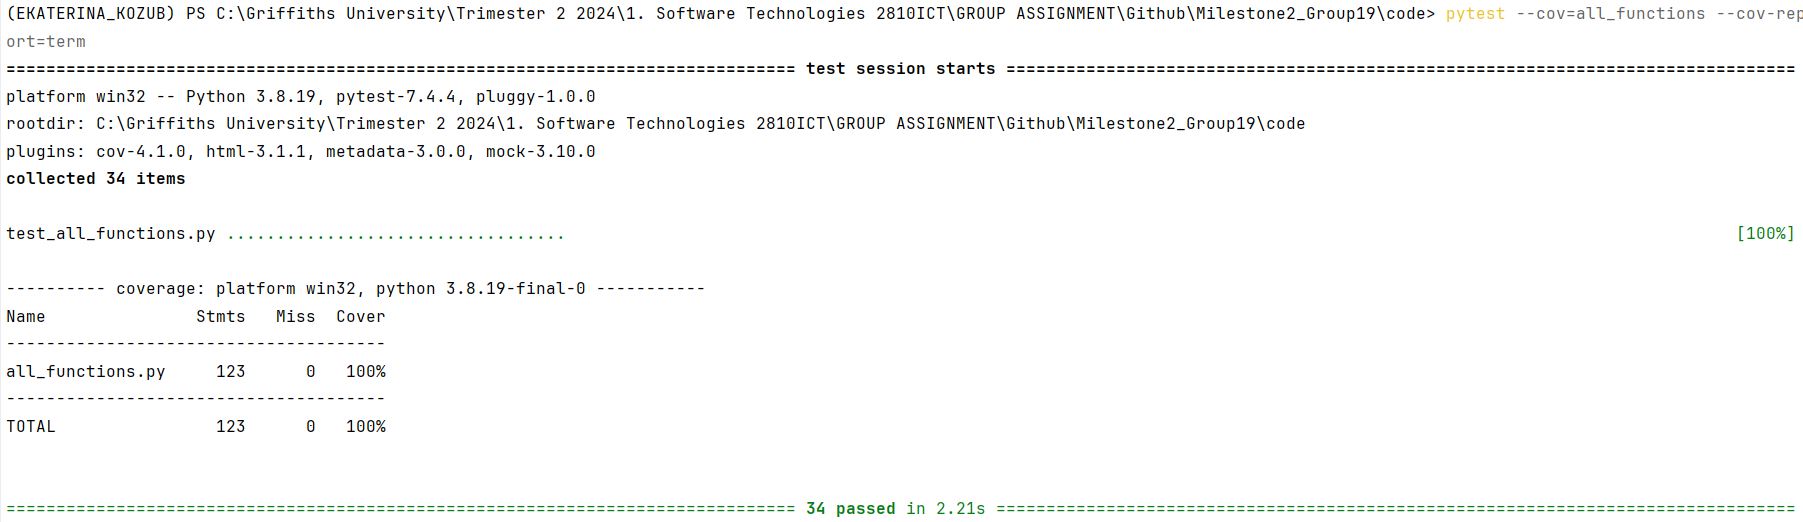
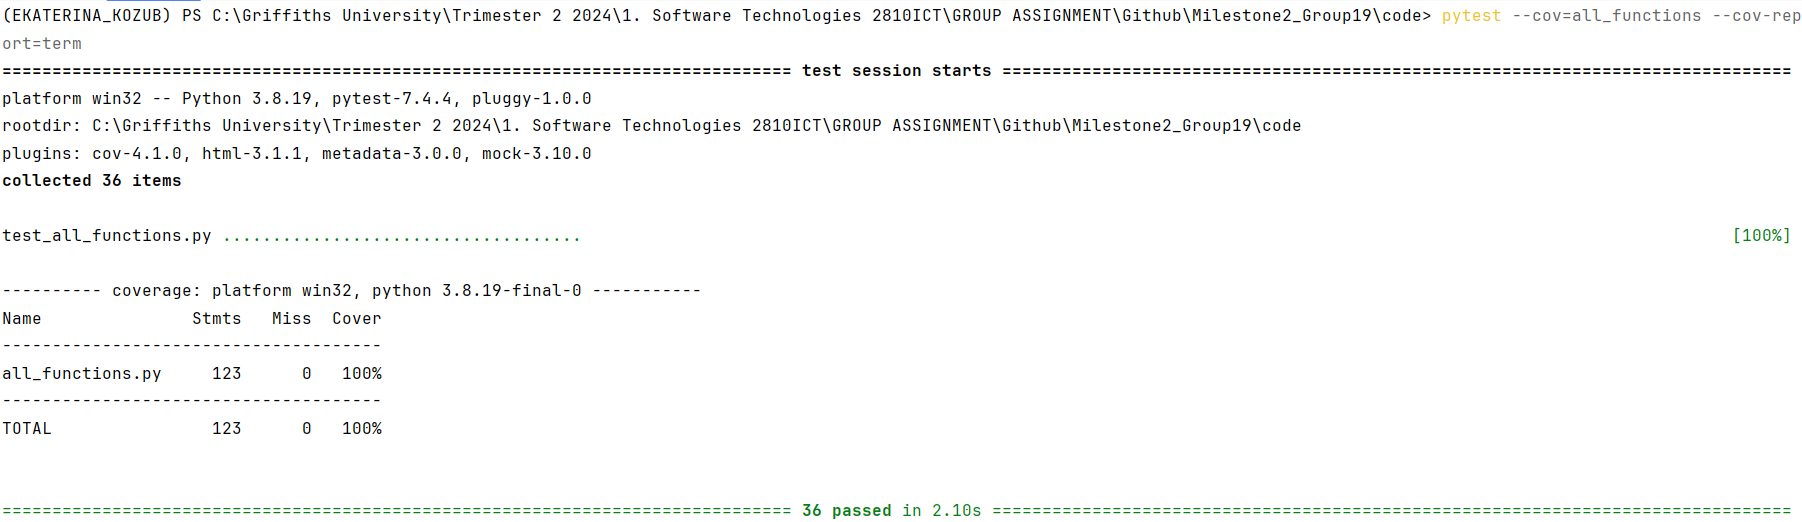
v_5.8

diff --git a/code/unit_test.html b/code/unit_test.html
@@ -429,10 +429,10 @@ function filterTable(elem) { // eslint-disable-line no-unused-vars
 }
 </script>
     <h1>unit_test.html</h1>
-    <p>Report generated on 02-Oct-2024 at 17:09:31 by <a href="https://pypi.python.org/pypi/pytest-html">pytest-html</a> v3.1.1</p>
+    <p>Report generated on 04-Oct-2024 at 09:38:50 by <a href="https://pypi.python.org/pypi/pytest-html">pytest-html</a> v3.1.1</p>
     <h2>Summary</h2>
-    <p>34 tests ran in 1.70 seconds. </p>
-    <p class="filter" hidden="true">(Un)check the boxes to filter the results.</p><input checked="true" class="filter" data-test-result="passed" hidden="true" name="filter_checkbox" onChange="filterTable(this)" type="checkbox"/><span class="passed">34 passed</span>, <input checked="true" class="filter" data-test-result="skipped" disabled="true" hidden="true" name="filter_checkbox" onChange="filterTable(this)" type="checkbox"/><span class="skipped">0 skipped</span>, <input checked="true" class="filter" data-test-result="failed" disabled="true" hidden="true" name="filter_checkbox" onChange="filterTable(this)" type="checkbox"/><span class="failed">0 failed</span>, <input checked="true" class="filter" data-test-result="error" disabled="true" hidden="true" name="filter_checkbox" onChange="filterTable(this)" type="checkbox"/><span class="error">0 errors</span>, <input checked="true" class="filter" data-test-result="xfailed" disabled="true" hidden="true" name="filter_checkbox" onChange="filterTable(this)" type="checkbox"/><span class="xfailed">0 expected failures</span>, <input checked="true" class="filter" data-test-result="xpassed" disabled="true" hidden="true" name="filter_checkbox" onChange="filterTable(this)" type="checkbox"/><span class="xpassed">0 unexpected passes</span>
+    <p>36 tests ran in 1.74 seconds. </p>
+    <p class="filter" hidden="true">(Un)check the boxes to filter the results.</p><input checked="true" class="filter" data-test-result="passed" hidden="true" name="filter_checkbox" onChange="filterTable(this)" type="checkbox"/><span class="passed">36 passed</span>, <input checked="true" class="filter" data-test-result="skipped" disabled="true" hidden="true" name="filter_checkbox" onChange="filterTable(this)" type="checkbox"/><span class="skipped">0 skipped</span>, <input checked="true" class="filter" data-test-result="failed" disabled="true" hidden="true" name="filter_checkbox" onChange="filterTable(this)" type="checkbox"/><span class="failed">0 failed</span>, <input checked="true" class="filter" data-test-result="error" disabled="true" hidden="true" name="filter_checkbox" onChange="filterTable(this)" type="checkbox"/><span class="error">0 errors</span>, <input checked="true" class="filter" data-test-result="xfailed" disabled="true" hidden="true" name="filter_checkbox" onChange="filterTable(this)" type="checkbox"/><span class="xfailed">0 expected failures</span>, <input checked="true" class="filter" data-test-result="xpassed" disabled="true" hidden="true" name="filter_checkbox" onChange="filterTable(this)" type="checkbox"/><span class="xpassed">0 unexpected passes</span>
     <h2>Results</h2>
     <table id="results-table">
       <thead id="results-table-head">
@@ -537,7 +537,7 @@ function filterTable(elem) { // eslint-disable-line no-unused-vars
         <tr>
           <td class="col-result">Passed</td>
           <td class="col-name">test_all_functions.py::test_create_bar_graph_valid</td>
-          <td class="col-duration">0.06</td>
+          <td class="col-duration">0.07</td>
           <td class="col-links"></td></tr>
         <tr>
           <td class="extra" colspan="4">
@@ -662,7 +662,7 @@ function filterTable(elem) { // eslint-disable-line no-unused-vars
       <tbody class="passed results-table-row">
         <tr>
           <td class="col-result">Passed</td>
-          <td class="col-name">test_all_functions.py::test_get_number_rows</td>
+          <td class="col-name">test_all_functions.py::test_get_number_rows_valid</td>
           <td class="col-duration">0.00</td>
           <td class="col-links"></td></tr>
         <tr>
@@ -671,7 +671,25 @@ function filterTable(elem) { // eslint-disable-line no-unused-vars
       <tbody class="passed results-table-row">
         <tr>
           <td class="col-result">Passed</td>
-          <td class="col-name">test_all_functions.py::test_get_number_cols</td>
+          <td class="col-name">test_all_functions.py::test_get_number_rows_invalid</td>
+          <td class="col-duration">0.00</td>
+          <td class="col-links"></td></tr>
+        <tr>
+          <td class="extra" colspan="4">
+            <div class="empty log">No log output captured.</div></td></tr></tbody>
+      <tbody class="passed results-table-row">
+        <tr>
+          <td class="col-result">Passed</td>
+          <td class="col-name">test_all_functions.py::test_get_number_cols_valid</td>
+          <td class="col-duration">0.00</td>
+          <td class="col-links"></td></tr>
+        <tr>
+          <td class="extra" colspan="4">
+            <div class="empty log">No log output captured.</div></td></tr></tbody>
+      <tbody class="passed results-table-row">
+        <tr>
+          <td class="col-result">Passed</td>
+          <td class="col-name">test_all_functions.py::test_get_number_cols_invalid</td>
           <td class="col-duration">0.00</td>
           <td class="col-links"></td></tr>
         <tr>

diff --git a/code/test_all_functions.py b/code/test_all_functions.py
@@ -208,11 +208,21 @@ def test_remove_food_from_meal_plan_invalid(meal_plan):
         remove_food_from_meal_plan(meal_plan, 'carrot', 2)
     assert exc_info.type is KeyError
 
-def test_get_number_rows(data_table):
+def test_get_number_rows_valid(data_table):
     assert data_table.GetNumberRows() == 3
 
-def test_get_number_cols(data_table):
+def test_get_number_rows_invalid():
+    with pytest.raises(AttributeError) as exc_info:
+        DataTable().GetNumberRows()
+    assert exc_info.type is AttributeError
+
+def test_get_number_cols_valid(data_table):
     assert data_table.GetNumberCols() == 4
+
+def test_get_number_cols_invalid():
+    with pytest.raises(AttributeError) as exc_info:
+        DataTable().GetNumberCols()
+    assert exc_info.type is AttributeError
 
 def test_get_value_valid(data_table):
     assert data_table.GetValue(0, 0) == 'apple'

diff --git a/documents/Unit_Testing_Report.md b/documents/Unit_Testing_Report.md
@@ -14,26 +14,26 @@ the five required features.</span> There is no need to test the GUI components. 
 list all tested functions related to the five required features and the corresponding test functions designed to test 
 those functions, for example:
 
-| **Tested Functions**                                                 | **Test Functions**                                                                                   |
-|----------------------------------------------------------------------|------------------------------------------------------------------------------------------------------|
-| `load_data(file_path)`                                               | `test_load_data_valid()` <br> `test_load_data_invalid()`                                             |
-| `search_food_by_name(food_name)`                                     | `test_search_food_by_name_valid()` <br> `test_search_food_by_name_invalid()`                         |
-| `get_nutritional_info(food_name)`                                    | `test_get_nutritional_info_valid(cream_cheese_info)` <br> `test_get_nutritional_info_invalid()`      |
-| `filter_nutritional_info(nutritional_info)`                          | `test_filter_nutritional_info_valid(cream_cheese_info)`<br> `test_filter_nutritional_info_invalid()` |
-| `create_pie_chart(filtered_sizes, filtered_categories, explode, ax)` | `test_create_pie_chart_valid()` <br> `test_create_pie_chart_invalid()`                               |
-| `create_bar_graph(filtered_categories, filtered_sizes, ax)`          | `test_create_bar_graph_valid()` <br> `test_create_bar_graph_invalid()`                               |
-| `filter_food_by_nutrient_range(nutrient, min_val, max_val)`          | `test_filter_food_by_nutrient_range_valid()` <br> `test_filter_food_by_nutrient_range_invalid()`     |
-| `filter_food_by_nutrient_level(nutrient, level)`                     | `test_filter_food_by_nutrient_level_valid()` <br> `test_filter_food_by_nutrient_level_invalid()`     |
-| `get_food_details(food_name, meal_plan)`                             | `test_get_food_details_valid(meal_plan)` <br> `test_get_food_details_invalid(meal_plan)`             |
-| `generate_meal_plan(meal_plan, food_name, quantity)`                 | `test_generate_meal_plan_valid(meal_plan)` <br> `test_generate_meal_plan_invalid(meal_plan)`         |
-| `generate_total_calories(meal_plan)`                                 | `test_generate_total_calories_valid(meal_plan)`  <br> `test_generate_total_calories_invalid(meal_plan)` |
+| **Tested Functions**                                                 | **Test Functions**                                                                                           |
+|----------------------------------------------------------------------|--------------------------------------------------------------------------------------------------------------|
+| `load_data(file_path)`                                               | `test_load_data_valid()` <br> `test_load_data_invalid()`                                                     |
+| `search_food_by_name(food_name)`                                     | `test_search_food_by_name_valid()` <br> `test_search_food_by_name_invalid()`                                 |
+| `get_nutritional_info(food_name)`                                    | `test_get_nutritional_info_valid(cream_cheese_info)` <br> `test_get_nutritional_info_invalid()`              |
+| `filter_nutritional_info(nutritional_info)`                          | `test_filter_nutritional_info_valid(cream_cheese_info)`<br> `test_filter_nutritional_info_invalid()`         |
+| `create_pie_chart(filtered_sizes, filtered_categories, explode, ax)` | `test_create_pie_chart_valid()` <br> `test_create_pie_chart_invalid()`                                       |
+| `create_bar_graph(filtered_categories, filtered_sizes, ax)`          | `test_create_bar_graph_valid()` <br> `test_create_bar_graph_invalid()`                                       |
+| `filter_food_by_nutrient_range(nutrient, min_val, max_val)`          | `test_filter_food_by_nutrient_range_valid()` <br> `test_filter_food_by_nutrient_range_invalid()`             |
+| `filter_food_by_nutrient_level(nutrient, level)`                     | `test_filter_food_by_nutrient_level_valid()` <br> `test_filter_food_by_nutrient_level_invalid()`             |
+| `get_food_details(food_name, meal_plan)`                             | `test_get_food_details_valid(meal_plan)` <br> `test_get_food_details_invalid(meal_plan)`                     |
+| `generate_meal_plan(meal_plan, food_name, quantity)`                 | `test_generate_meal_plan_valid(meal_plan)` <br> `test_generate_meal_plan_invalid(meal_plan)`                 |
+| `generate_total_calories(meal_plan)`                                 | `test_generate_total_calories_valid(meal_plan)`  <br> `test_generate_total_calories_invalid(meal_plan)`      |
 | `remove_food_from_meal_plan(meal_plan, food_name, quantity)`         | `test_remove_food_from_meal_plan_valid(meal_plan)` <br> `test_remove_food_from_meal_plan_invalid(meal_plan)` |
-| `DataTable.GetNumberRows()`                                          | `test_get_number_rows(data_table)`                                                                   |
-| `DataTable.GetNumberCols()`                                          | `test_get_number_cols(data_table)`                                                                   |
-| `DataTable.GetValue(row, col)`                                       | `test_get_value_valid(data_table)` <br> `test_get_value_invalid(data_table)`         |
-| `DataTable.SetValue(row, col, value)`                                | `test_set_value_valid(data_table)` <br> `test_set_value_invalid(data_table)`         |
-| `DataTable.GetColLabelValue(col)`                                    | `test_get_col_label_value_valid(data_table)` <br> `test_get_col_label_value_invalid(data_table)`   |
-| `DataTable.GetAttr(row, col, prop)`                                  | `test_get_attr_valid(data_table)` <br> `test_get_attr_invalid(data_table)`             |
+| `DataTable.GetNumberRows()`                                          | `test_get_number_rows_valid(data_table)` <br>   `test_get_number_rows_invalid()`                             |
+| `DataTable.GetNumberCols()`                                          | `test_get_number_cols(data_table)`   <br>  `test_get_number_cols_invalid()`                                  |
+| `DataTable.GetValue(row, col)`                                       | `test_get_value_valid(data_table)` <br> `test_get_value_invalid(data_table)`                                 |
+| `DataTable.SetValue(row, col, value)`                                | `test_set_value_valid(data_table)` <br> `test_set_value_invalid(data_table)`                                 |
+| `DataTable.GetColLabelValue(col)`                                    | `test_get_col_label_value_valid(data_table)` <br> `test_get_col_label_value_invalid(data_table)`             |
+| `DataTable.GetAttr(row, col, prop)`                                  | `test_get_attr_valid(data_table)` <br> `test_get_attr_invalid(data_table)`                                   |
 ---
 
 ## 2. **Test Case Details**
@@ -509,6 +509,7 @@ def test_remove_food_from_meal_plan_invalid(meal_plan):
 ### Test Case 13:
 - **Test Function/Module**
 - `test_get_number_rows(data_table)`
+- `test_get_number_rows_invalid()`
 - **Tested Function/Module**
   - `DataTable.GetNumberRows()`
 - **Description**
@@ -525,9 +526,24 @@ def test_get_number_rows(data_table):
     assert data_table.GetNumberRows() == 3
 ```
 
+- **2) Invalid Input and Expected Output**
+
+| **Invalid Input**             | **Expected Output** |
+|-------------------------------|---------------------|
+| `DataTable().GetNumberRows()` | `Handle Exception`  |
+
+- **2) Code for the Test Function**
+```python
+def test_get_number_rows_invalid():
+    with pytest.raises(AttributeError) as exc_info:
+        DataTable().GetNumberRows()
+    assert exc_info.type is AttributeError
+```
+
 ### Test Case 14:
 - **Test Function/Module**
 - `test_get_number_cols(data_table)`
+- `test_get_number_cols_invalid()`
 - **Tested Function/Module**
   - `DataTable.GetNumberCols()`
 - **Description**
@@ -542,6 +558,20 @@ def test_get_number_rows(data_table):
 ```python
 def test_get_number_cols(data_table):
     assert data_table.GetNumberCols() == 4
+```
+
+- **2) Invalid Input and Expected Output**
+
+| **Invalid Input**             | **Expected Output** |
+|-------------------------------|---------------------|
+| `DataTable().GetNumberCols()` | `Handle Exception`  |
+
+- **2) Code for the Test Function**
+```python
+def test_get_number_cols_invalid():
+    with pytest.raises(AttributeError) as exc_info:
+        DataTable().GetNumberCols()
+    assert exc_info.type is AttributeError
 ```
 
 ### Test Case 15:
